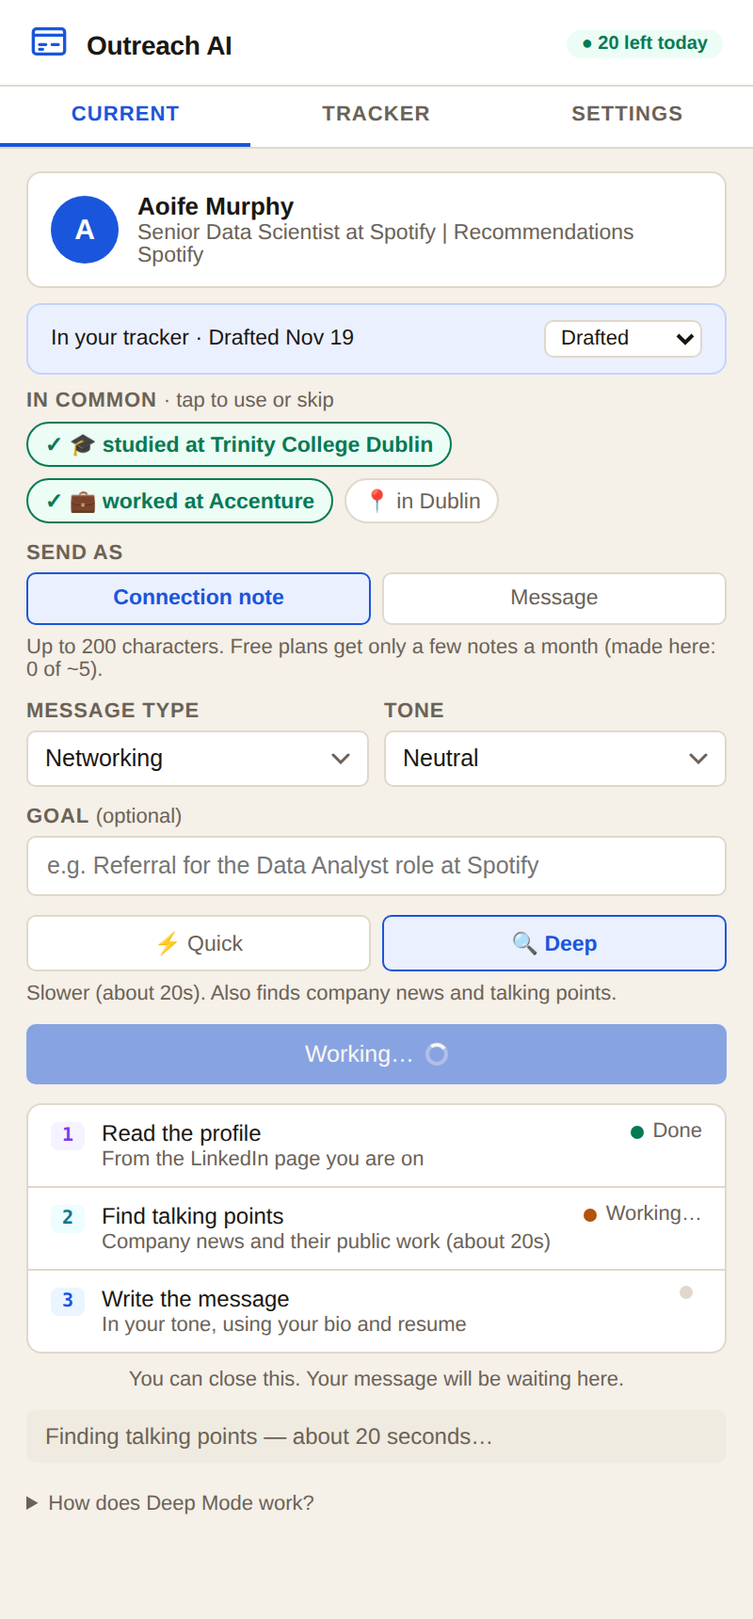
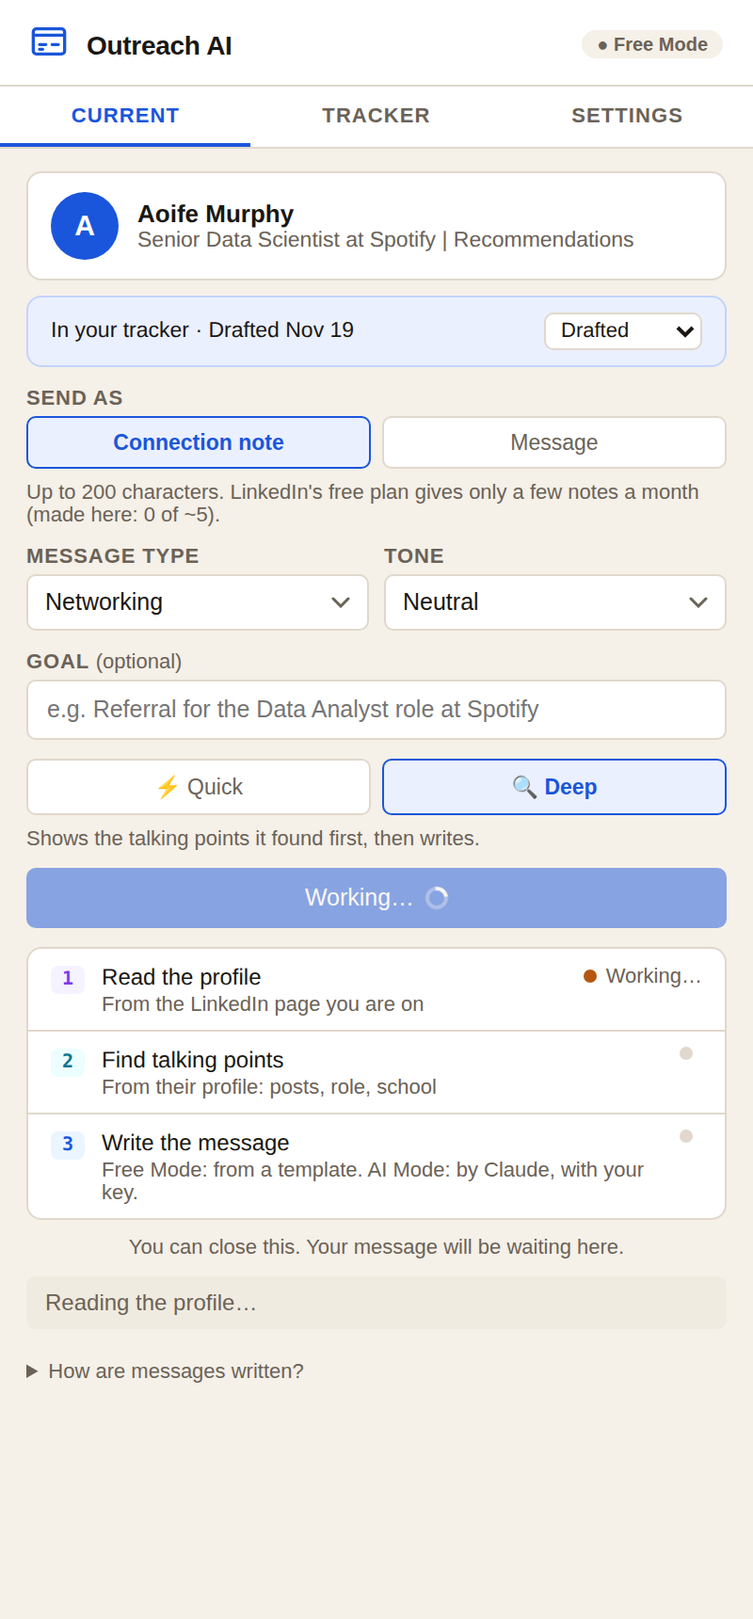
Docs for 3.1.0: README, how AI Mode works, new screenshots
- README: what changed from 3.1.0, the bug table (B15 to B20 are fixed
  in a9eed56), privacy, and what is not done yet.
- docs/AI-MODE.md (new): how Free Mode and AI Mode write a message, what
  is sent to Anthropic and when, and what it costs.
- docs/API-PROPOSAL.md removed: it described Ark's old server, which
  3.1.0 removed. Its ideas that still matter are in docs/AI-MODE.md.
- Screenshots made again with the real extension. The people and the
  messages are made up; the AI Mode shot uses a fake Claude.

diff --git a/README.md b/README.md
@@ -1,12 +1,23 @@
 # LinkedIn Outreach AI — v4
 
-An improved version of Ark's LinkedIn outreach extension.
-**Not a rewrite:** same plain JavaScript, same Ark server and API, no framework.
-Commit [`e4af38f`](../../commit/e4af38f) is the original v3.0.2 exactly as received; every change after it is a small, tested commit.
+An improved version of Ark's LinkedIn outreach extension, built on Ark's latest version, **3.1.0**.
+**Not a rewrite:** same plain JavaScript, no framework, no build step. Like 3.1.0, it needs no server and no license key: **Free Mode** writes the message from a template on your device; **AI Mode** lets Claude write it, with your own Anthropic API key.
 
-> In one line: v3 writes a message in a popup. v4 helps you get a reply — it reads today's LinkedIn correctly, writes straight into LinkedIn's own note box, never loses your work, knows LinkedIn's limits, checks the draft before you send it, and reminds you to follow up.
+Commit [`e4af38f`](../../commit/e4af38f) is the original v3.0.2 exactly as received, and [`7776170`](../../commit/7776170) is Ark's 3.1.0 exactly as received. Every change after them is a tested commit. The move onto 3.1.0 is one commit, [`a9eed56`](../../commit/a9eed56), because its code and its tests only work together.
 
-**The biggest finding:** on LinkedIn's 2026 profile page, v3 reads almost nothing. Run unchanged on a live profile, it sent the AI a name with the notification count stuck on (like "(6) Jane Doe") and an empty profile, so every "personalized" message was generic. v4's new reader gets every field. See [Reading LinkedIn](#reading-linkedin-v3-vs-v4).
+> In one line: 3.1.0 writes a message in a popup. v4 helps you get a reply — it reads today's LinkedIn correctly, writes straight into LinkedIn's own note box, never loses your work, knows LinkedIn's limits, checks the draft before you send it, and reminds you to follow up.
+
+**The biggest finding:** on LinkedIn's 2026 profile page, Ark's profile reader reads almost nothing, and 3.1.0 did not change it. Run unchanged on a live profile, it returned a name with the notification count stuck on (like "(6) Jane Doe") and an empty profile. So 3.1.0's Free Mode writes this, word for word, to a test person:
+
+> Hi (3),
+>
+> I enjoyed your recent post about "Senior Data Scientist at Spotify \| Recommendations".
+>
+> I'd love to connect and exchange ideas.
+>
+> Best,
+
+It greets her as "(3)" and praises her headline as a post. v4's reader gets every field. So v4 writes "Hi Aoife, your recent post caught my eye: …" from her real post, or, with your own profile added in Settings, "Hi Aoife, I see we both studied at Trinity College Dublin. Would you be open to connecting?" See [Reading LinkedIn](#reading-linkedin-31-vs-v4).
 
 <p>
   <img src="docs/screenshots/panel-4-quick-done.png" width="260" alt="Side panel: a draft with the 200-character meter, Fit to 200, common ground and the message check">
@@ -14,26 +25,29 @@ Commit [`e4af38f`](../../commit/e4af38f) is the original v3.0.2 exactly as recei
 </p>
 <img src="docs/screenshots/inpage-2-note-written.png" width="560" alt="Write a note to Aoife, inside LinkedIn's Add a note box: the note is fitted to 200 characters and Send is left to you">
 
-<sub>The real extension in Chromium (`npm run screenshots`). The LinkedIn page is a test page that copies the structure of LinkedIn's 2026 profile page; the person and the messages are made up.</sub>
+<sub>The real extension in Chromium (`npm run screenshots`). The LinkedIn page is a test page that copies the structure of LinkedIn's 2026 profile page; the person and the messages are made up. The AI Mode shot uses a fake Claude: its reply is example text, too long on purpose, to show Fit to 200.</sub>
 
 ## What changed
 
-| | v3.0.2 (before) | v4 (now) |
+| | Ark's 3.1.0 (before) | v4 (now) |
 |---|---|---|
 | **Reading the profile** | On today's LinkedIn: name with "(6)" in front, everything else empty | Every field, checked on live profiles; your scroll position is put back |
+| **Free Mode (no key)** | "Hi (3),", post quotes cut mid-word, no length limit, ignores what you have in common and your goal | The right name, always fits 200 (300 on Premium), never cuts a word, opens with what you share, turns your goal into the ask |
+| **AI Mode (your own key)** | Asks Claude for "under 600 characters" even for a 200-character note; a 400-token cap that Claude's thinking can use up; resume collected but never used | Tells Claude the real limit; no thinking for a short note; checks why Claude stopped; can use your resume (only if you turn that on); marks everything from LinkedIn as someone else's text |
 | **Writing where you type** | Copy from the popup, paste into LinkedIn | **✨ Write a note to Aoife** inside LinkedIn's own "Add a note" / message box; fitted to the box's limit; you press Send |
 | **Where it lives** | Popup that closes when you click the page | Side panel that stays open and follows you from profile to profile |
-| **Losing work** | Close the popup mid-run → result and quota lost | The background owns each run; close and reopen, the message is there |
+| **Losing work** | Close the popup mid-run → result lost | The background owns each run; close and reopen, the message is there |
 | **Deep Mode** | Two buttons; the second one hidden below the fold | One click, with progress in plain words |
 | **Length** | Plain "413 chars" counter | Knows a connection note is 200 chars (300 Premium): live meter, **Fit to 200**, note budget |
 | **Personal touch** | — | **Common ground**: same school, employer, city, "both studied in India" |
 | **Quality** | — | **Message check**: specific? clear ask? cliché opener? and a **fact-check** for names no source backs up |
 | **After sending** | "Last 5 contacts" | **Tracker**: Drafted → Sent → Connected → Replied, follow-ups due, reply rates, CSV. Moves itself forward when a profile shows "Pending" or "1st" |
-| **Key status** | "● Active" for any saved text | Real status from the server: "● 17 left today" / "Invalid key" |
-| **Errors** | `Unexpected token '<'…`, endless spinner | Plain-English errors and time limits |
+| **Key status** | "● AI Mode" for any saved text, even a key that does not work | "● Free Mode" / "● AI Mode". When AI Mode cannot work: **Key not working**, **Billing problem**, **Spend limit reached** or **AI Mode not available**, with the reason |
+| **Errors** | Raw API errors, no time limit | One plain sentence for each case, and a 30-second limit (60 with a resume) |
+| **Your key and resume** | Saved where the extension's scripts on LinkedIn pages can read them too | Locked to the extension's own pages (checked in Chromium) |
 | **Install warning** | "Read your browsing history" (`tabs`) | Removed; no new warnings (guarded in CI) |
 
-Bugs fixed, each with a test that failed before the fix:
+Bugs fixed. B1–B14 each have a test that failed before the fix; B15–B20 are in 3.1.0's new code and are covered by tests of v4's writer and AI call.
 
 | # | Bug | Commit |
 |---|---|---|
@@ -41,26 +55,32 @@ Bugs fixed, each with a test that failed before the fix:
 | B2 | Only Indian locations recognised: jobs in London or Toronto shifted the whole job list | `013747b` |
 | B3 | Popup taller than Chrome's 600px limit | `218c84a` |
 | B4 | Deep Mode's second button hidden below the fold | `1eb6f09` |
-| B5 | "● Active" shown for keys the server rejects | `26926b2` |
-| B6 | Closing the popup lost the run, the message and the used quota | `1eb6f09` |
+| B5 | "● Active" shown for keys that do not work | `26926b2` |
+| B6 | Closing the popup lost the run and the message | `1eb6f09` |
 | B7 | Edits and "Regenerate" never reached Recent; Deep Mode contacts could overwrite each other | `86eb472` |
-| B8 | Server error pages shown as raw JSON parse errors | `9351f2c` |
-| B9 | No time limit on server calls | `9351f2c` |
+| B8 | Error pages shown as raw JSON parse errors | `9351f2c` |
+| B9 | No time limit on calls | `9351f2c` |
 | B10 | Unused `tabs` permission (install warning) | `16bb7a9` |
 | B11 | Dead code in the background | `16bb7a9` |
 | B12 | On the 2026 page: name read from the tab title with the notification count (like "(6) Jane Doe"); no headline or location (there is no `<h1>` any more) | `67da416` |
-| B13 | On the 2026 page: Experience, Education and Skills never load, because v3 scrolls the window and the page now scrolls an inner box | `67da416` |
+| B13 | On the 2026 page: Experience, Education and Skills never load, because the reader scrolls the window and the page now scrolls an inner box | `67da416` |
 | B14 | On the 2026 page: About skipped, junk "skills", the person's own headline read as a "post" | `67da416` |
+| B15 | 3.1.0 Free Mode greets "Hi (3)," and praises the headline as a post (B12 + B14 reach the message) | `a9eed56` |
+| B16 | 3.1.0 AI Mode asks for "under 600 characters" even for a 200-character note, so LinkedIn cannot take it | `a9eed56` |
+| B17 | 3.1.0 AI Mode: Claude Haiku's thinking counts against a 400-token cap, so a message can come back cut off or empty; why Claude stopped is never checked | `a9eed56` |
+| B18 | 3.1.0 Free Mode cuts post quotes mid-word and does not fit a note to LinkedIn's limit | `a9eed56` |
+| B19 | 3.1.0 puts profile text into the prompt with no guard against instructions written inside a profile | `a9eed56` |
+| B20 | 3.1.0 asks for a resume but never uses it (v4 uses it in AI Mode only after you tick a box, so an update never starts sending a resume you saved before) | `a9eed56` |
 
 Two more bugs were found in v4's own new code by its tests (a lock race in the job runner, and a migration write-back race), and fixed before shipping. Details are in the commit messages.
 
-## Reading LinkedIn: v3 vs v4
+## Reading LinkedIn: 3.1.0 vs v4
 
-Checked by hand on live LinkedIn (Nov 2026), on a public figure's profile and on the author's own: v3, run unchanged, got the name wrong and left everything else empty; v4 read every field, including several roles at one company, in 1.5–2.3 seconds.
+Ark's profile reader is the same in 3.0.2 and 3.1.0. Checked by hand on live LinkedIn (Nov 2026), on a public figure's profile and on the author's own: run unchanged, it got the name wrong and left everything else empty; v4 read every field, including several roles at one company, in 1.5–2.3 seconds.
 
-Measured with `npm run bench`: the original v3 code against v4's reader, in real Chromium, on 8 made-up profiles built with the live page's structure ([full table](docs/benchmark.md)).
+Measured with `npm run bench`: Ark's reader against v4's, in real Chromium, on 8 made-up profiles built with the live page's structure ([full table](docs/benchmark.md)).
 
-| Fields read correctly | v3.0.2 | v4 |
+| Fields read correctly | Ark's reader (3.0.2 = 3.1.0) | v4 |
 |---|---:|---:|
 | You open a profile and click right away | 8% | 100% |
 | You scrolled the whole page yourself first | 36% | 100% |
@@ -70,13 +90,13 @@ Read the 100% with care: the test pages copy the structure that v4's reader was 
 ## Try it
 
 1. Open `chrome://extensions`, turn on **Developer mode**, click **Load unpacked**, and pick the **`extension/`** folder.
-2. Click the toolbar icon. The side panel opens.
-3. **Settings** → paste your `ARK-…` license key → **Verify**.
-   Optional: open your own LinkedIn profile and click **Use the profile I'm on** (for common ground).
+2. Click the toolbar icon. The side panel opens, in **Free Mode** (no key needed).
+3. Optional: open your own LinkedIn profile, then **Settings → Use the profile I'm on** (for common ground).
 4. Open any LinkedIn profile → **Generate message**.
 5. Or write straight into LinkedIn: on a profile, click **Connect → Add a note** (or **Message**). A **✨ Write a note to …** button appears inside LinkedIn's box. Click it, read the note, then press LinkedIn's **Send** yourself.
+6. Optional, for AI Mode: **Settings → Anthropic API key** → paste your own key → **Test**. See [docs/AI-MODE.md](docs/AI-MODE.md) for what is sent and what it costs.
 
-**No license key or LinkedIn account?** Run `npm install`, then `npm run demo`. It opens the real extension in a Chromium window, on two test profiles (made-up people, LinkedIn's 2026 page structure) with a fake Ark server that gives example answers. Every other site is blocked. Open the side panel from the extension's toolbar icon (under the puzzle-piece button).
+**No LinkedIn account?** Run `npm install`, then `npm run demo`. It opens the real extension in a Chromium window, on two test profiles (made-up people, LinkedIn's 2026 page structure), in Free Mode. Every other site is blocked. Open the side panel from the extension's toolbar icon (under the puzzle-piece button).
 
 ## Run the tests
 
@@ -84,19 +104,20 @@ Read the 100% with care: the test pages copy the structure that v4's reader was 
 npm install
 npm test                        # unit tests: the real panel + background, in a fake browser
 npx playwright install chromium
-npm run test:e2e                # the real extension in Chromium, LinkedIn and server faked
+npm run test:e2e                # the real extension in Chromium, LinkedIn and Anthropic faked
 npm run check:permissions       # fails if the manifest would show a new install warning
-npm run bench                   # v3's page reader against v4's, on 8 test profiles
-npm run screenshots             # side-panel screenshots into docs/screenshots/
+npm run bench                   # Ark's page reader against v4's, on 8 test profiles
+npm run screenshots             # screenshots into docs/screenshots/
 ```
 
-No LinkedIn account or license key is needed for any of these: LinkedIn pages and Ark's server are local fakes, and all other network traffic is blocked.
+No LinkedIn account or API key is needed for any of these: LinkedIn pages and Anthropic's API are local fakes, and all other network traffic is blocked.
 
 ## How it is built
 
 | File | Job |
 |---|---|
-| `extension/background.js` | Runs each generation as a **job** and saves every step in `chrome.storage.session`. Talks to Ark's server. |
+| `extension/background.js` | Runs each generation as a **job** and saves every step in `chrome.storage.session`. In AI Mode, calls Claude with your key. |
+| `extension/utils/writer.js` | What to write: Free Mode's template, the talking points, and the prompt for AI Mode. |
 | `extension/sidepanel.*` | The UI. Draws whatever state is saved; holds no work of its own. |
 | `extension/scraper.js` | Reads a 2026 LinkedIn profile: finds parts by stable test ids and headings, never by class names; loads the lazy sections by scrolling LinkedIn's inner box, then puts your scroll back. |
 | `extension/content_script.js` | Answers the background's "read this page" requests — only when asked. |
@@ -112,15 +133,18 @@ No LinkedIn account or license key is needed for any of these: LinkedIn pages an
 - **You always press Send.** The extension never sends, connects or messages on LinkedIn for you. No bulk actions, no crawling. (Automation gets LinkedIn accounts restricted — a disaster for a student's job search.) The in-page button only writes into a box you opened, only when you click it, and never presses Send; a test checks that no Send is ever pressed.
 - **It checks who the box is for.** If the open chat is with someone else, or you clicked Connect on someone in "People you may know", the button says so and writes nothing — so a note written for one person never lands in an invite to another.
 - **It leaves LinkedIn's page alone.** The button lives in its own small bar (its own shadow root) inside LinkedIn's box; no LinkedIn element is changed or restyled. LinkedIn's page can see that bar, so it can tell the extension is installed — as with any extension that adds a button to a page.
-- **No new data leaves your laptop.** The tracker and your own profile live in `chrome.storage.local`. The extension calls the same Ark endpoints as before; extra context (length limit, common ground, goal) travels inside fields the server already reads.
-- **Fewer permissions.** `tabs` removed. Added only `sidePanel` and `alarms`, which show no install warning — so updating does not switch the extension off for existing users. CI enforces this.
+- **Free Mode sends nothing anywhere.** The tracker, your settings and your own profile stay in `chrome.storage.local`.
+- **AI Mode sends only what it needs, only to Anthropic.** When you generate, these go to `api.anthropic.com` with your key: the profile you are viewing, your name, bio and goal, what you have in common (from your own profile), and your resume only if you ticked "Use my resume in AI Mode". The key is saved only on this device (shown as a password field) and is sent nowhere else.
+- **The extension's scripts on LinkedIn pages cannot read your key or resume.** The extension locks its saved data to its own pages (`chrome.storage.local.setAccessLevel`). LinkedIn's own scripts could never read it.
+- **Only your own clicks count.** The in-page button ignores clicks made by a script in LinkedIn's page, so a page cannot start paid AI runs on your key. Requests from LinkedIn pages may only ask to write into their own tab; everything else is for the side panel.
+- **Fewer permissions.** `tabs` removed. Added only `sidePanel` and `alarms`, which show no install warning. Host access is exactly 3.1.0's: LinkedIn and Anthropic. CI enforces this.
 
 ## Not done yet / known limits
 
-- **Not yet run against Ark's live server.** It needs a test license key. All tests use a fake server that follows the real API's request and response shapes.
+- **AI Mode has not been run against Anthropic's real API.** That needs a real API key. The tests use a fake that follows the Messages API's request and response shapes.
 - **Checked on live LinkedIn (Nov 2026):** the page reader, on two profiles; the small chat box's structure (inside a shadow root); the "Invite <Name> to connect" labels; and LinkedIn's real message editor taking inserted text. A test line went in, LinkedIn's own Send button turned on, and after Undo the box was empty and Send was off again. Both ways of inserting worked (the browser typing it, and the backup). This was on the Messaging page, whose editor has the same labels and Send button as the small chat box. Nothing was sent.
-- **Not yet checked on live LinkedIn:** the 2026 "Add a note" box itself (the button finds it by role and wording: a dialog about a note or invitation with a text box), and a full click on the in-page button with a real license key. Both are tested in real Chromium on pages that copy LinkedIn's structure.
+- **Not yet checked on live LinkedIn:** the 2026 "Add a note" box itself (the button finds it by role and wording: a dialog about a note or invitation with a text box). It is tested in real Chromium on pages that copy LinkedIn's structure.
 - **The small chat box on a profile, not the full Messaging page.** In a narrow window, LinkedIn opens its full Messaging page instead of the small box. That page keeps the chat in an embedded frame, and the button does not appear there. Copy from the side panel still works.
 - **English LinkedIn only, for the in-page button.** It looks for words like "Messaging", "note", "Invite … to connect". In another language it may not appear; the side panel still works.
 - **The in-page button always uses Quick Mode** (it should be fast). For Deep Mode, use the side panel — both share the same draft.
-- **Server-side improvements** (send the resume once, a proper `context` field, streaming) need Ark's backend. They are written up in [docs/API-PROPOSAL.md](docs/API-PROPOSAL.md), not faked on the client.
+- **AI Mode needs each student's own Anthropic key**, as in 3.1.0. Most students do not have one; a small server holding Ark's key would fix that. Ideas are in [docs/AI-MODE.md](docs/AI-MODE.md).

diff --git a/docs/AI-MODE.md b/docs/AI-MODE.md
@@ -1,0 +1,70 @@
+# How messages are written (Free Mode and AI Mode)
+
+Since Ark's 3.1.0 there is no Ark server and no license key. v4 keeps that: everything runs inside the extension.
+
+| | Free Mode | AI Mode |
+|---|---|---|
+| **When** | No key in Settings (the default) | You paste your **own** Anthropic API key in Settings |
+| **Who writes** | A template, on your device | Claude (`claude-haiku-5-5`), called straight from the extension |
+| **Cost** | Free | Anthropic charges your account: well under a cent per message |
+| **What leaves your device** | Nothing | Only when you generate, to `api.anthropic.com` with your key: the profile you are viewing, your name, bio and goal, what you have in common (from your own profile), and your resume if you ticked "Use my resume in AI Mode" |
+
+Both modes get the same facts: the profile, where the message goes (a connection note of 200 or 300 characters, or a message), type, tone, your goal, what you have in common, and up to 3 talking points from the profile. The code is in [`extension/utils/writer.js`](../extension/utils/writer.js) (what to write) and [`extension/background.js`](../extension/background.js) (the call to Claude).
+
+## Free Mode
+
+A template, but a careful one:
+
+- **The right name.** 3.1.0 took the first word of whatever name the old reader returned. On today's LinkedIn that is the notification count, so it wrote **"Hi (3),"**. v4's reader returns the real name, and the writer also skips a count, a title ("Dr.", "Prof.", "CA", "Smt.", "Md.") or initials ("K.", "S.K."). With no name left, it says "Hello,".
+- **Never over LinkedIn's limit.** A note is built to fit 200 characters (300 on Premium) from whole parts: if it is too long, the writer drops your intro first, then shortens the post quote, then uses their role instead. A question is never cut. 3.1.0's note could be longer than LinkedIn allows.
+- **Never a word cut in half.** 3.1.0 quoted posts like "…ranking mod…". v4 quotes the post's first sentence, or cuts at a word and adds "…". A dot in "J.P. Morgan", "U.S. Bank" or a list's "1." does not end the sentence.
+- **No links, hashtags or sad news in a quote.** Hashtags at the end are left out, and the quote stops before a link. A post with common words for a layoff, an illness or a death ("laid off", "made redundant", "passed away", "died", "R.I.P.") is never quoted. The list errs on the safe side: a happy post it skips only means another opener.
+- **Your own words, whole.** "A bit about me:" uses the first sentence of your bio, or nothing. It is never cut short, and "Analyst at J.P. Morgan." stays whole.
+- **Common ground first.** "I see we both studied at Trinity College Dublin." is the strongest opener two strangers can have. It stays first when you press **New version**, so a line you just picked is used.
+- **Your goal becomes the question.** For example:
+  - "Referral for the Data Analyst role at Spotify" → "…would you consider referring me for the Data Analyst role at Spotify?"
+  - "Looking for data roles in Dublin" → "…a short chat about data roles in Dublin?"
+  - "Ask about her team" → "…a short chat about your team?"
+
+  A goal that reads like a sentence or a question ("Saw your talk at PyData", "How did you get into data?") is left out of the question. A template cannot understand every sentence, so it can still get some goals wrong: read the question before you send. AI Mode always gets all of your goal.
+- **The right question.** A message goes to someone you are already connected with, so it never asks them to connect. The type is remembered from last time, so the goal wins when they disagree: a goal about advice gets a chat, even when the type says Referral. "Referring me for …" only ever names a role, and "exploring … together" only names something to work on.
+- **Follow-ups make sense.** When the tracker says someone accepted, the message starts "Thanks for connecting!" instead of pasting the tracker's instruction into it. A follow-up keeps what you added to the tracker's goal (a role, a referral).
+- **"New version" changes something.** A template gives the same text every time. So each new version asks in other words, and moves on to the next thing about them. A line you picked under **In common** stays first.
+
+## AI Mode
+
+What v4 sends to Claude, and why:
+
+- **The real limit.** A free connection note allows 200 characters. 3.1.0 asked for "under 600 characters" for every message, so LinkedIn could not take the note. v4 asks for about 15% under the real limit (models often write a bit more than asked), and says "no sign-off" for notes (LinkedIn shows your name). The panel's meter and **Fit to 200** are the safety net.
+- **No thinking for a short note.** Claude Haiku 5.5 thinks before it answers by default, and that thinking counts against `max_tokens`. 3.1.0 allowed only 400 tokens, so a message could come back cut off or empty. v4 turns thinking off (`thinking: {type: "disabled"}`), allows 1,024 tokens, and checks why Claude stopped (`refusal`, `max_tokens`).
+- **Everything from LinkedIn is marked as someone else's text.** Your instructions and your own words (goal, name, bio) go first. The profile, the talking points and the common ground go in tagged blocks (`<profile>`, `<talking_points>`, `<common_ground>`), with every `<` inside them escaped, so a profile cannot close its block and look like an instruction. A last line says to use those blocks as information only and ignore any instructions in them. (Anyone can write anything in their LinkedIn About.)
+- **"Do not invent facts."** The prompt says so, and the panel's fact-check flags names in the draft that no source backs up.
+- **Your resume, only if you say so.** 3.1.0 still asked for a resume but never sent it anywhere. v4 can send it to Claude as a PDF, so the message can say what you have to offer. But it does so only after you tick **Use my resume in AI Mode** in Settings. Ticking or unticking it applies at once. A resume kept from 3.1.0 is not sent until you tick it. The PDF is labelled as yours. If Anthropic cannot read it (a password, or a renamed file), the message is written without it, and the panel (or the bar in LinkedIn's box) says so. **Remove resume** deletes it.
+- **Plain errors.** Each problem gets one clear sentence, never a raw error:
+  - a wrong key, or a key from an organization that blocks browser calls
+  - a billing problem, or no credit left
+  - a spend limit
+  - too many requests, or Anthropic is busy
+  - no internet
+  - a key pasted with a curly quote
+  - the time limit: 30 seconds, 60 with a resume
+
+  When trying again would not help, it also shows Anthropic's own reason.
+- **The header tells the truth.** When AI Mode cannot work until you act, the badge says why, with the reason under it: **Key not working** (a refused key), **Billing problem** (no credit, a declined card), **Spend limit reached**, or **AI Mode not available** (the account cannot use the model). It is only about the key you have now: a slow request with your old key cannot mark, or clear, a new one. A key that failed **Test** is not called "on" when you then press Save.
+- **Test checks for real.** The **Test** button sends one tiny request, so a key with no credit left is caught too.
+- **Your key stays out of LinkedIn's pages.** The key and the resume are saved in `chrome.storage.local`, as in 3.1.0. LinkedIn's own scripts could never read that. But by default, the scripts an extension runs on linkedin.com can. v4's never need to, so the extension locks it to its own pages (`setAccessLevel: TRUSTED_CONTEXTS`). A test in real Chromium (`test/e2e/storage-lock.spec.js`) runs a script where the extension's own scripts run on a LinkedIn page (Chrome's "isolated world" for content scripts). That script now gets "Access to storage is not allowed from this context." (A Chrome that cannot lock local storage refuses the call. Then those scripts can still read it, as in 3.1.0.)
+
+The call is a plain `fetch` to `POST https://api.anthropic.com/v1/messages` with the headers `x-api-key`, `anthropic-version: 2023-06-01` and `anthropic-dangerous-direct-browser-access: true` (Anthropic's switch for calls made from a browser with the user's own key). The extension has no build step, so it does not bundle Anthropic's JavaScript SDK; 3.1.0 calls the API the same way.
+
+**Cost, roughly:** Claude Haiku 5.5 costs $0.10 per million input tokens and $0.50 per million output tokens. One message is about 1,000 to 2,000 input tokens (a few thousand more with a resume) and about 100 output tokens: around $0.0002 to $0.001.
+
+**The model is set in one place** (`ANTHROPIC_MODEL` in `background.js`, with `ANTHROPIC_THINKING` next to it: other models need another thinking setting, as the comment there says). Haiku 5.5 is Ark's choice in 3.1.0: fast and very cheap for a student paying with their own key. A larger model would write better messages, at many times the cost.
+
+## If Ark brings a server back later
+
+Asking every student for their own API key is the weakest part of 3.1.0's design: most students do not have one. A small server could hold Ark's key instead (students never see it), set a daily limit per user, and keep everything above. Ideas from the old server that would still matter then:
+
+1. **Send the resume once** and keep a short summary, instead of sending the PDF with every message.
+2. **Stream the message** so it appears as it is written.
+3. **Outcome data, opt-in:** the tracker knows each message's type, tone, length, and whether the person accepted and replied. With the user's consent, anonymous counts (no names, no text) would show which messages actually get replies.
+4. **Rate-limit any key-check endpoint**, a common brute-force target.
